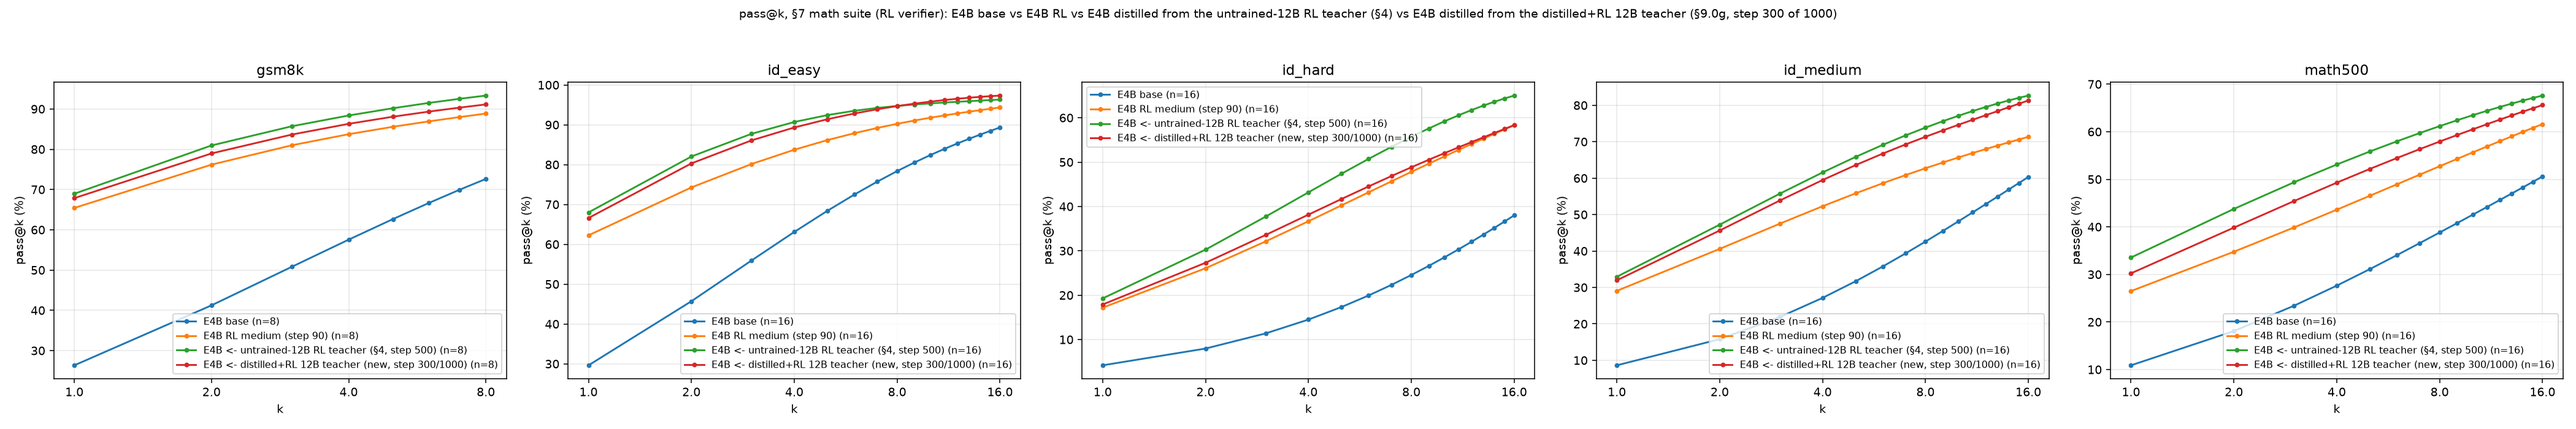
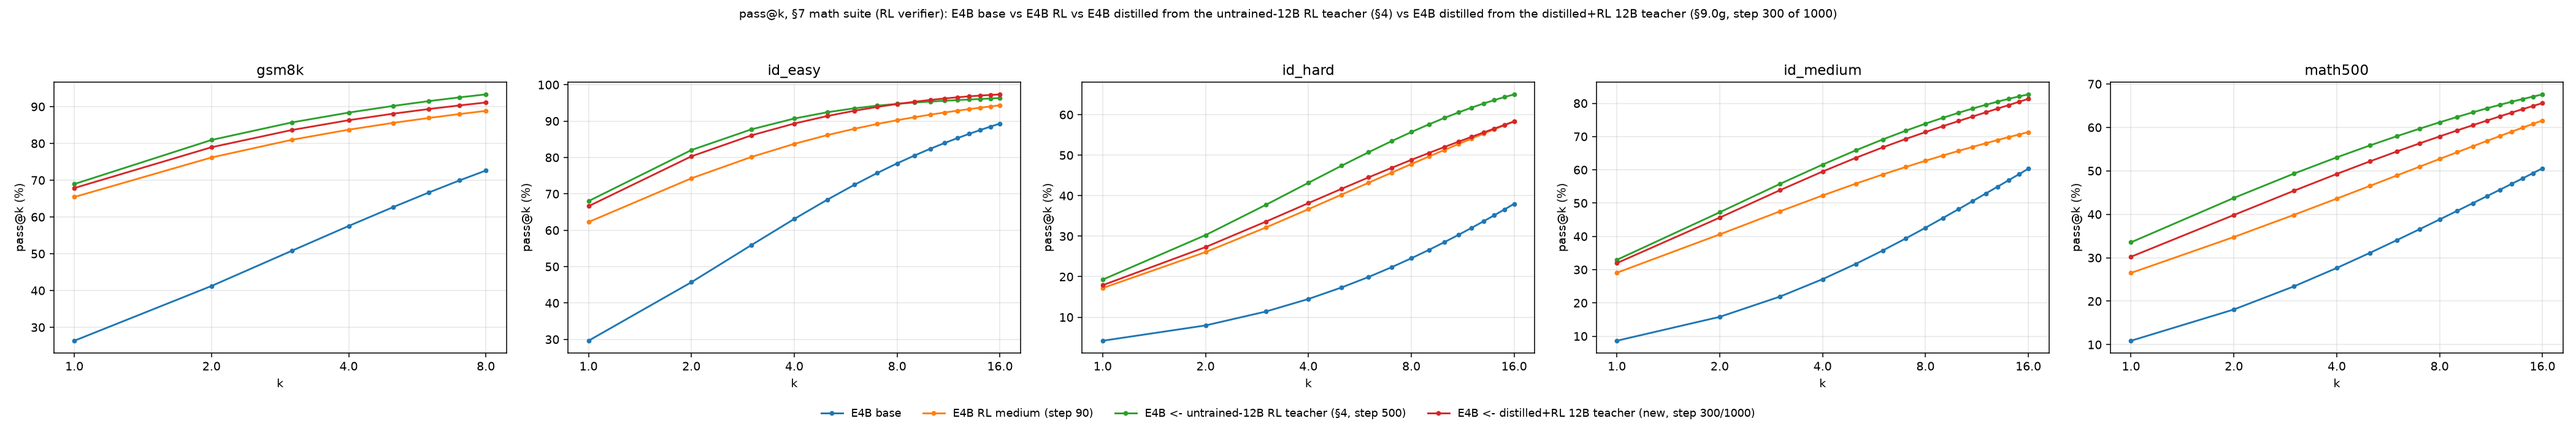
plot_passk_from_traces: --shared-legend (one figure-level legend); regenerate the step-300 E4B figure

diff --git a/rl-distill-scripts/plot_passk_from_traces.py b/rl-distill-scripts/plot_passk_from_traces.py
@@ -14,6 +14,7 @@ from __future__ import annotations
 
 import argparse
 import json
+import re
 from collections import defaultdict
 from math import comb
 from pathlib import Path
@@ -44,6 +45,7 @@ def main() -> int:
     parser.add_argument("--trace", action="append", required=True, help='"LABEL=PATH" (repeatable)')
     parser.add_argument("--out", type=Path, required=True)
     parser.add_argument("--title", default="pass@k (unbiased estimator); verifier = RL reward (strict last \\boxed{})")
+    parser.add_argument("--shared-legend", action="store_true", help="one figure-level legend below the panels instead of one per panel")
     args = parser.parse_args()
 
     panels: dict[str, list[tuple[str, Path]]] = defaultdict(list)
@@ -61,11 +63,20 @@ def main() -> int:
             print(f"{dataset:<10}{label:<28}{questions:>5}{ks[-1]:>4}{g(1):>8.1f}{g(4):>8.1f}{g(16):>9.1f}{curve[-1]:>8.1f}")
         ax.set_xscale("log", base=2)
         ax.get_xaxis().set_major_formatter(matplotlib.ticker.ScalarFormatter())
-        ax.set_xlabel("k"); ax.set_ylabel("pass@k (%)"); ax.set_title(dataset); ax.grid(alpha=0.3); ax.legend(fontsize=8)
+        ax.set_xlabel("k"); ax.set_ylabel("pass@k (%)"); ax.set_title(dataset); ax.grid(alpha=0.3)
+        if not args.shared_legend:
+            ax.legend(fontsize=8)
     import textwrap
     title = textwrap.fill(args.title, width=max(60, 72 * len(panels)))   # keep the suptitle inside the figure width
     fig.suptitle(title, fontsize=10)
-    fig.tight_layout(rect=(0, 0, 1, 0.94 - 0.03 * (title.count("\n"))))
+    bottom = 0.0
+    if args.shared_legend:
+        handles, labels = axes[0][0].get_legend_handles_labels()
+        labels = [re.sub(r" \(n=\d+\)$", "", label) for label in labels]   # n differs per panel; keep the legend generic
+        ncol = min(len(labels), 4)
+        fig.legend(handles, labels, loc="lower center", ncol=ncol, fontsize=9, frameon=False)
+        bottom = 0.06 * ((len(labels) + ncol - 1) // ncol)
+    fig.tight_layout(rect=(0, bottom, 1, 0.94 - 0.03 * (title.count("\n"))))
     args.out.parent.mkdir(parents=True, exist_ok=True)
     fig.savefig(args.out, dpi=140)
     print(f"wrote {args.out}")
